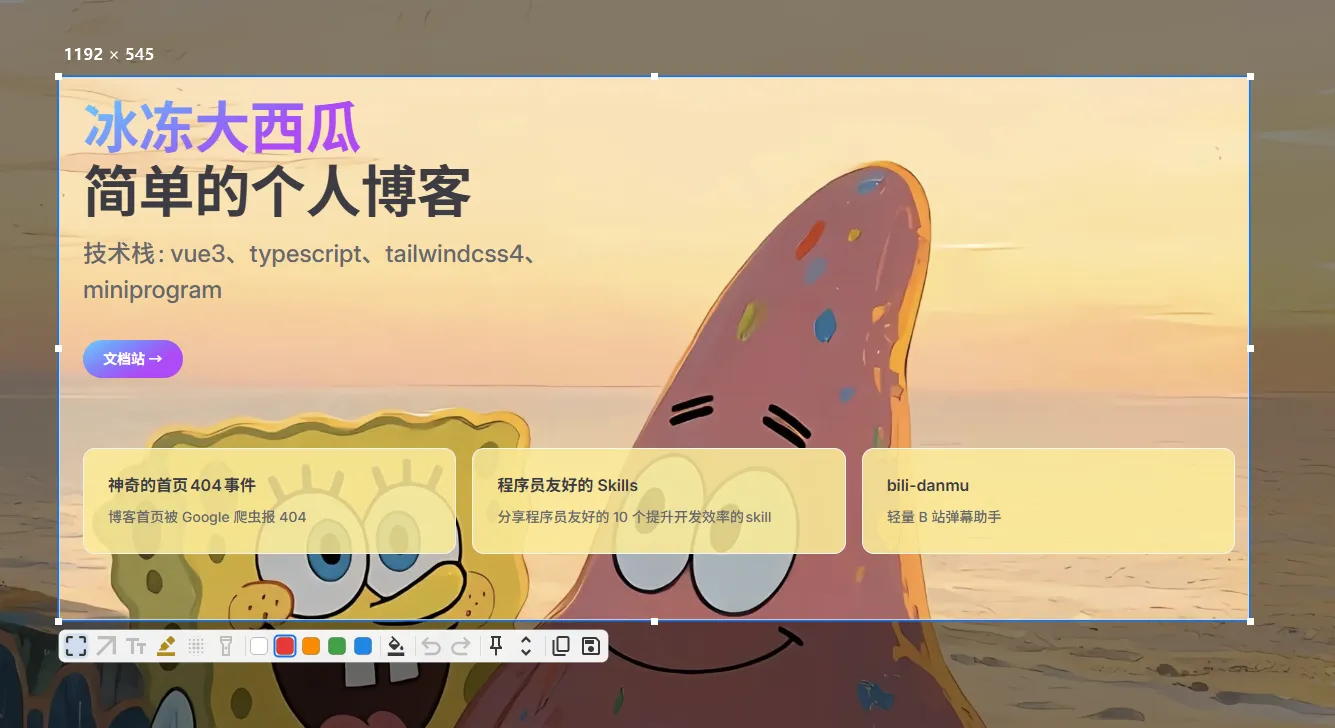
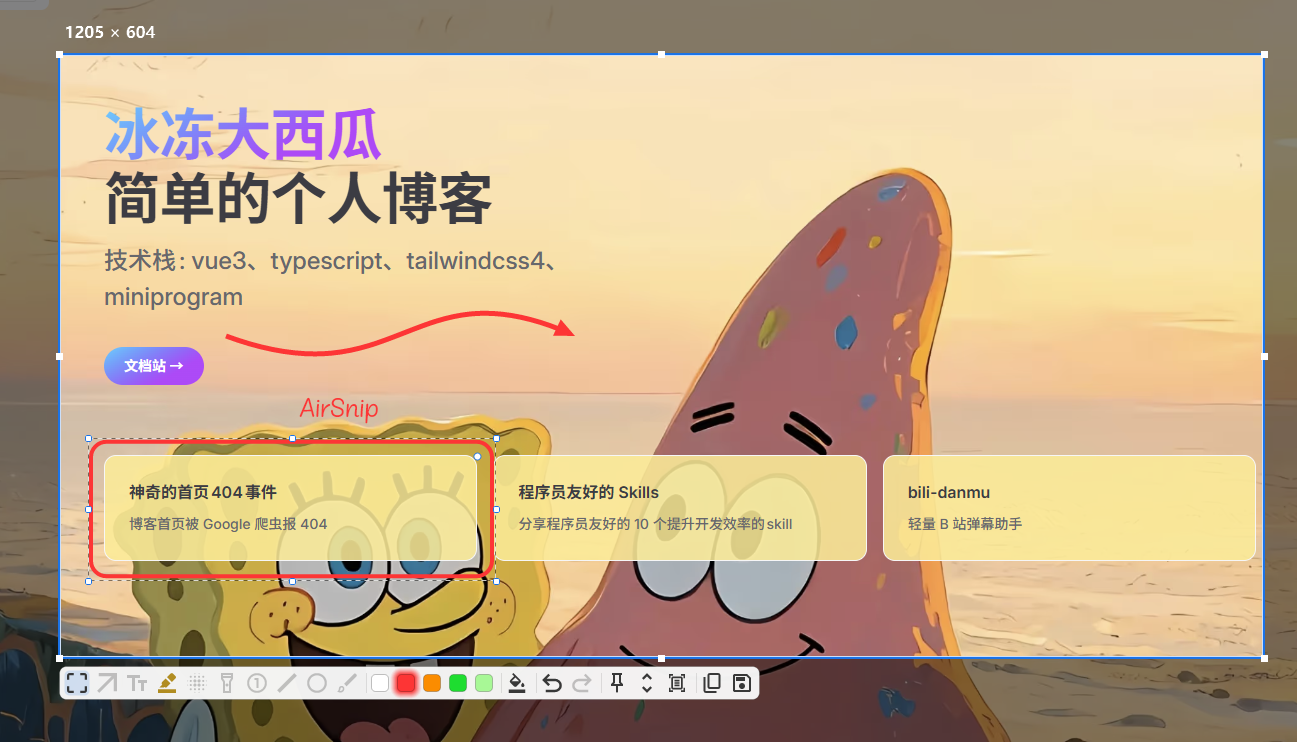
📝 同步 README（10 个工具、工具键 1–0、Del 删除、指标改上限口径）+ 更新头图 (#149)
README 同步（无代码改动）：

- 标注表 6 → 10 个工具（补序号标记 / 直线 / 椭圆 / 手绘，v0.9–v0.10 已交付）
- 快捷键表：工具键 `1`–`9`、`0`；补 `Del` / `Backspace` 删除选中对象（#145）
- 指标改上限口径（体积 < 2 MB / 待机内存 < 5 MB / 热键 ≤ 150 ms / 拖框 ≥ 60 FPS），不再写会随版本漂移的精确值；精确数值留在 docs/perf-m5.md
- 头图换成展示 10 个工具 + 选中对象 + 箭头的实拍图；`cargo test` 334 → 364 项

diff --git a/README.md b/README.md
@@ -1,29 +1,28 @@
 # AirSnip（轻截）
 
-**1.4 MB 的 Windows 截图标注工具。** 常驻内存 1.2 MB、待机 0% CPU、按热键 0.12 秒出画面——
+**2 MB 以内的 Windows 截图标注工具。** 待机不占 CPU、常驻内存个位数 MB、按热键 0.1 秒级出画面——
 标注、二次编辑、长截图、贴图、多格式另存，功能一样不少。
 
 > 纯 CPU 渲染，不依赖 GPU、不套 Electron、不装运行时。解压即用的绿色单文件，在核显迷你主机、虚拟机、远程桌面里同样流畅。
 
 ![AirSnip 截图覆盖层：冻结屏幕、框选区域、底部标注工具栏](assets/hero.webp)
 
-*按 `F1` 后的样子：屏幕冻结、框选任意区域，底部一行就是全部标注工具。*
+*按 `F1` 后的样子：屏幕冻结、框选区域，底部一行就是全部标注工具。图中选中了一个矩形标注（可拖动 / 改色 / 删除），另有一条箭头。*
 
-## 几个关键数字
+## 几条硬指标
 
-| 指标 | 实测 | 说明 |
+| 指标 | 表现 | 说明 |
 |---|---|---|
-| **单文件体积** | **1.38 MB** | 绿色免安装，一个 exe 就是全部 |
-| **下载包** | **0.77 MB** | zip，含文档与许可证 |
-| **待机内存** | **1.2 MB** | 常驻托盘时的 Private Working Set |
-| **待机 CPU** | **0.00%** | 事件驱动，无定时轮询 |
-| **热键 → 可用画面** | **124 ms** | 2560×1440：全屏抓取 + 暗化 + 覆盖层就绪 |
-| **拖框重绘** | **4.6 ms / 帧** | 60 FPS 红线 16.7 ms，留有 3 倍余量 |
+| **体积** | **单文件 < 2 MB** | 绿色免安装，一个 exe 就是全部（zip 包更小） |
+| **待机内存** | **< 5 MB** | 常驻托盘时的 Private Working Set（实测 1 MB 量级） |
+| **待机 CPU** | **0%** | 事件驱动、无定时轮询，不截图时完全不占 CPU |
+| **热键 → 可用画面** | **≤ 150 ms** | 2560×1440：抓屏 + 暗化 + 覆盖层就绪（0.1 秒级） |
+| **拖框重绘** | **≥ 60 FPS** | 每帧个位数毫秒，16.7 ms 预算留有多倍余量 |
 
 > 截图会话期间会按屏幕大小临时分配位图（1440p 约 15 MB），退出覆盖层立即释放——不截图时它几乎不占资源。
-> 数据来自真实目标机型（无独显）实测，方法与优化过程见 `docs/perf-m5.md`。
+> 以上为上限口径（不会随每次发版漂移）；精确数值与测量方法见 `docs/perf-m5.md`。
 
-**为什么能这么小：** 没有 Electron / WebView / .NET 运行时，界面与标注全部由 Rust 直接绘制（tiny-skia 矢量栅格化 + DirectWrite 文字），抓屏走 GDI BitBlt，常驻部分只做「等热键」一件事。不少同类工具自带运行时或基于 Electron，安装包在数十至上百 MB、常驻内存数百 MB 量级——AirSnip 把这两项都压到了 1 MB 量级。
+**为什么能这么小：** 没有 Electron / WebView / .NET 运行时，界面与标注全部由 Rust 直接绘制（tiny-skia 矢量栅格化 + DirectWrite 文字），抓屏走 GDI BitBlt，常驻部分只做「等热键」一件事。不少同类工具自带运行时或基于 Electron，安装包在数十至上百 MB、常驻内存数百 MB 量级——AirSnip 把安装包压到 2 MB 以内、常驻内存压到 1 MB 量级。
 
 ## 适合谁
 
@@ -42,7 +41,7 @@
   注意：已有的标注会被拍进新底图变成像素，不再可编辑（不可撤销）
 - 多显示器与负坐标布局正确（Per-Monitor V2 感知；混合 DPI 见「已知限制」）
 
-### 标注（6 个工具，箭头支持直线与曲线）
+### 标注（10 个工具，箭头支持直线与曲线）
 | 工具 | 能做什么 |
 |---|---|
 | 矩形 | 描边颜色、线宽、填充、**圆角** |
@@ -51,6 +50,10 @@
 | 荧光笔 | 正片叠底半透明色块，不遮挡底图文字 |
 | 高斯模糊 | 拖动区域即模糊，强度滚轮可调 |
 | 聚光灯 | 选区内整体暗化、绘制区域恢复原亮，可叠加多块 |
+| 序号标记 | 按下放圆形徽标（1、2、3…自动递增），拖出箭头指向目标；双击徽标可改编号 |
+| 直线 | 无箭头纯线段，`Shift` 吸附水平 / 垂直 / 45° |
+| 椭圆 | 拖出外接矩形画椭圆，可填充，`Shift` 画正圆 |
+| 手绘 | 按住鼠标自由涂画，点列贝塞尔平滑，颜色 / 线宽可调 |
 
 曲线箭头：选中后 1/3、2/3 处出现控制柄，拖出 S 形，双击恢复直线。
 矩形、荧光笔、模糊、聚光灯都支持**圆角**：拖包围框内侧角的小圆柄即可，所见即所得。
@@ -107,8 +110,9 @@
 | `S` | 长截图（当前选区为视口，可改） |
 | `Shift+F1` | 再次截图：把当前画面当作新底图重新框选（用于截取本软件界面，可改） |
 | `T` | OCR 识别选区文字（可改，可在「工具栏」页隐藏按钮） |
-| `1`–`6` | 切换工具（矩形 / 箭头 / 文本 / 荧光笔 / 模糊 / 聚光灯，可改） |
+| `1`–`9`、`0` | 切换工具（矩形 / 箭头 / 文本 / 荧光笔 / 模糊 / 聚光灯 / 序号 / 直线 / 椭圆 / 手绘，可改） |
 | `Ctrl+Z` / `Ctrl+Y` · `Ctrl+Shift+Z` | 撤销 / 重做 |
+| `Del` / `Backspace` | 删除选中的那个标注（一步撤销可恢复，不影响其它标注） |
 | 方向键（`Shift` ×5） | 微调选中对象；无选中时移动选区框 |
 | `Shift` + 拖动 | 正方形 / 箭头方向吸附 / 轴向锁定 / 等比缩放 |
 | 按住空格 + 拖动 | 移动整个选区 |
@@ -150,7 +154,7 @@
 ```powershell
 cargo run                 # 开发版（不提权，可调试）
 cargo build --release     # 发布版（manifest 要求管理员权限，单文件）
-cargo test                # 单测（334 项，另 15 项需 --ignored 手动触发）
+cargo test                # 单测（364 项，另 15 项需 --ignored 手动触发）
 cargo fmt --check         # 格式化检查
 cargo deny check          # 依赖许可证 / 安全公告 / 来源检查
 pwsh scripts/package.ps1  # 打包 dist\airsnip-v{版本}-win-x64.zip / .exe
